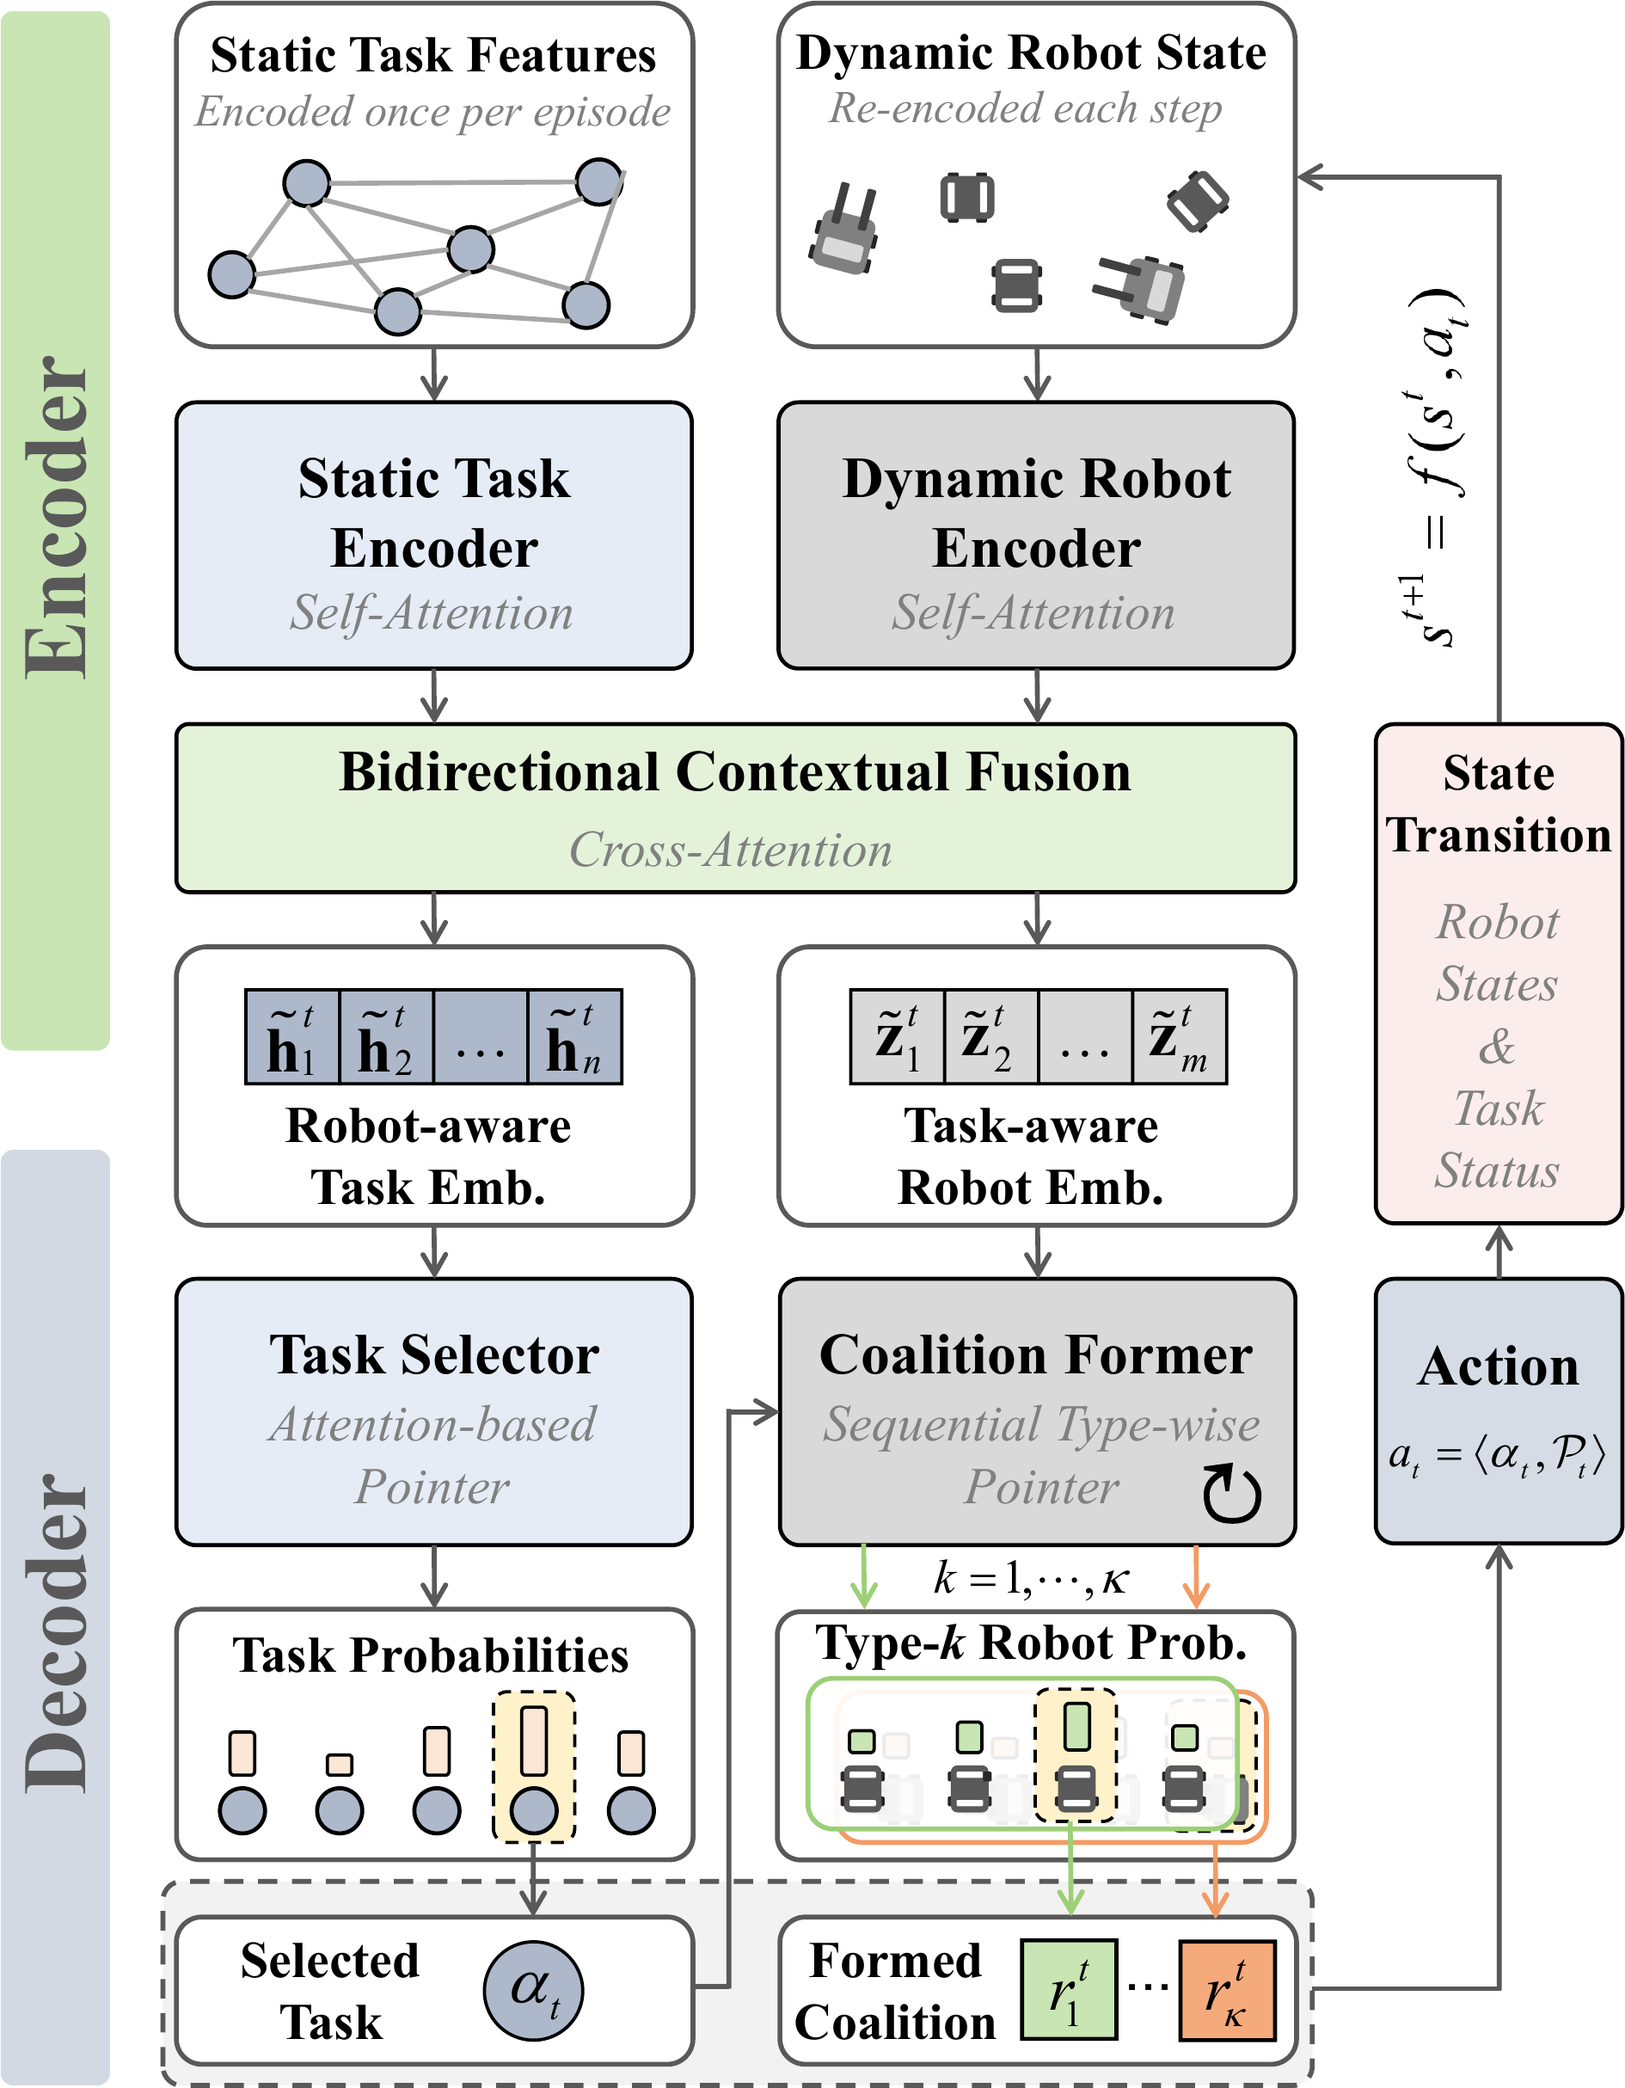
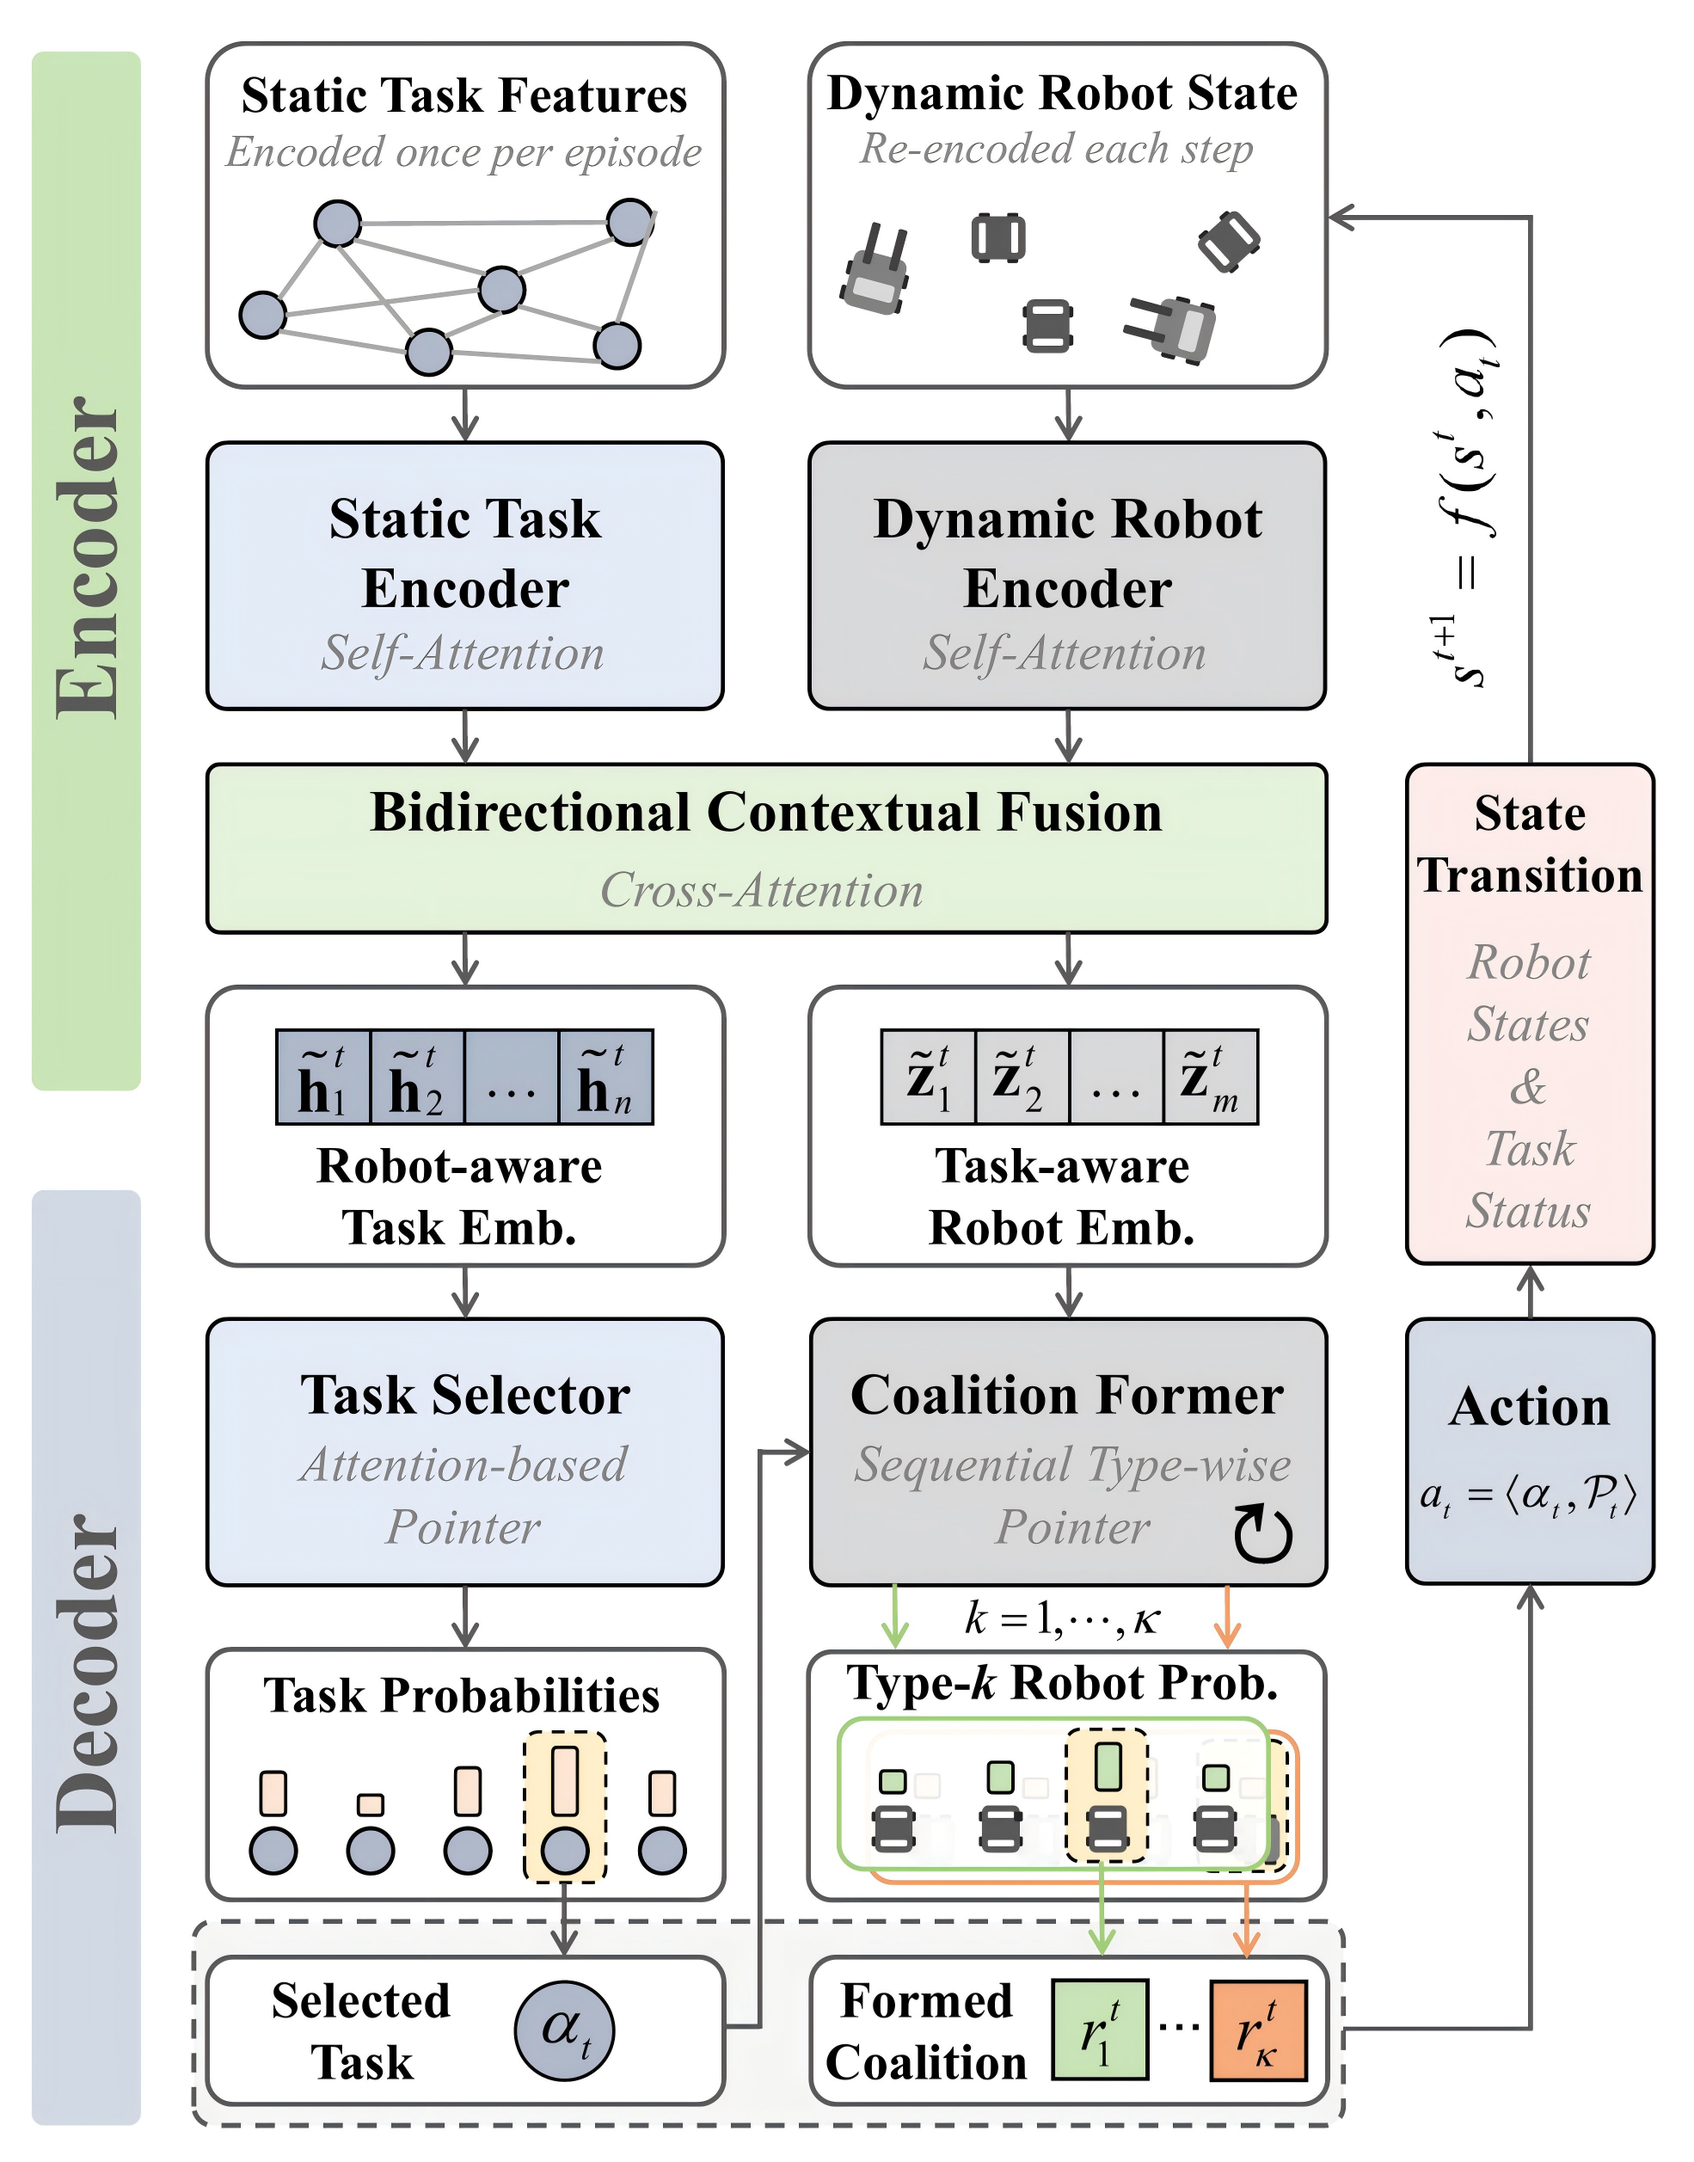
Use supplied architecture crop

Changed region(s): [[0.0, 0.0, 1.0, 1.0]]

diff --git a/README.md b/README.md
@@ -78,7 +78,7 @@ Co-HeT is a Transformer-based encoder-decoder policy network for task-coalition 
 
 <p align="center">
   <a href="docs/figures/architecture.pdf">
-    <img src="docs/figures/architecture_overview.png" alt="Architecture of the Co-HeT policy network" width="100%">
+    <img src="docs/figures/architecture_overview.png?v=2" alt="Architecture of the Co-HeT policy network" width="100%">
   </a>
   <br>
   <em>Fig. 4. Architecture of the Co-HeT policy network.</em>
